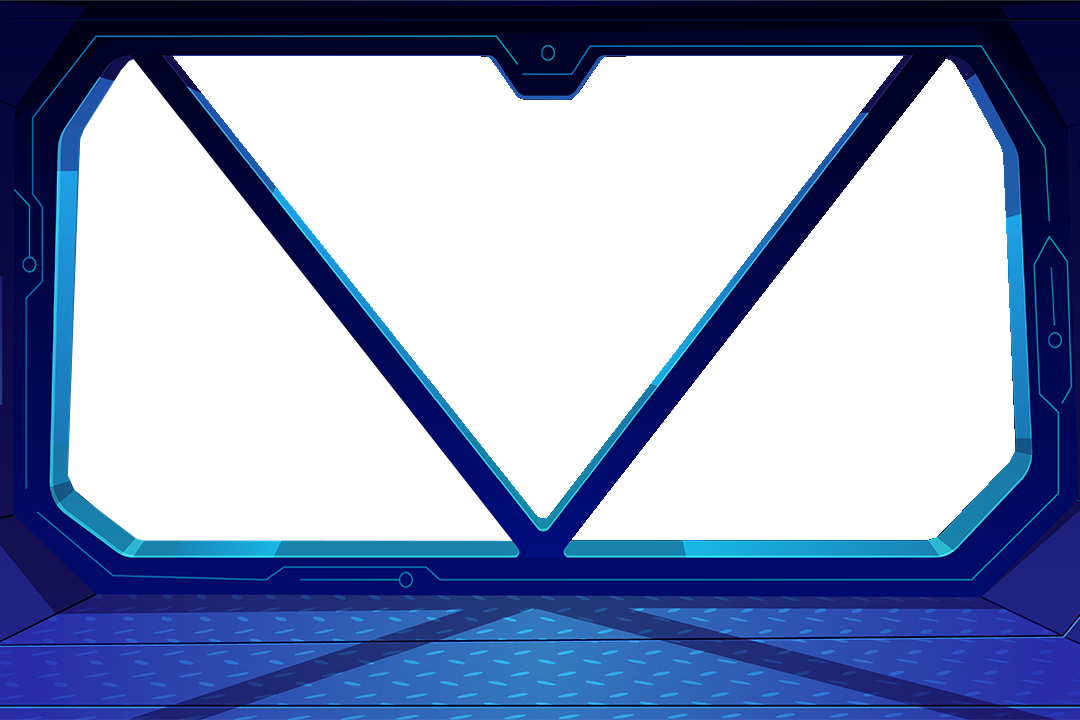
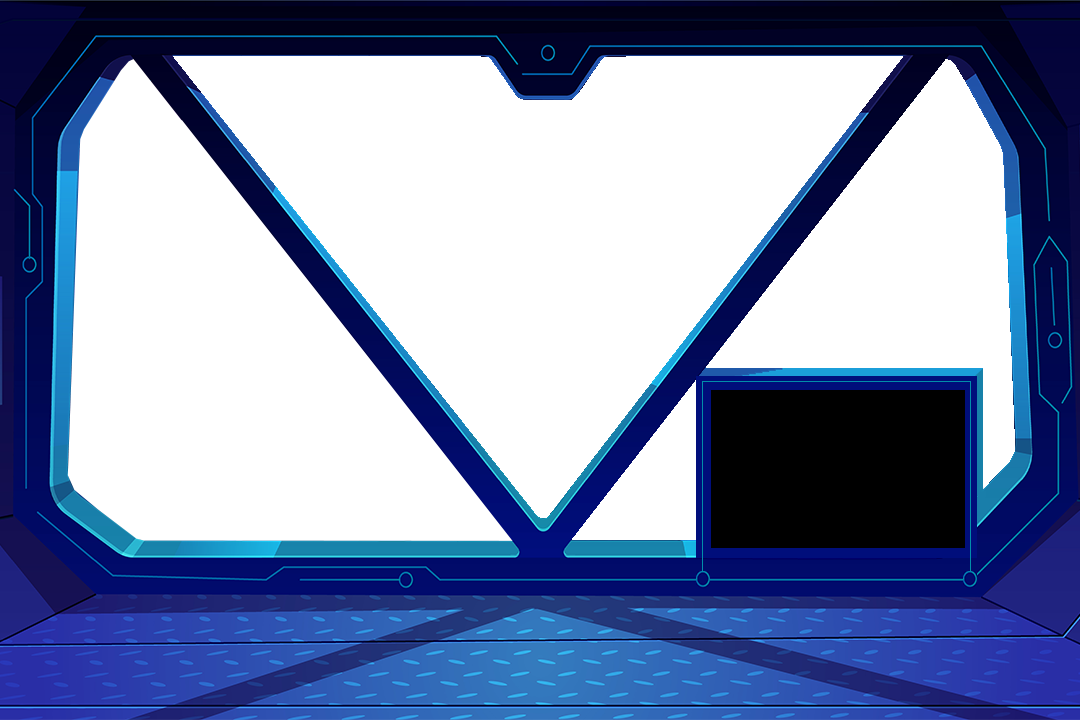
Enhanced end game and added return to menu option

Changed region(s): [[0.6417, 0.4889, 0.9167, 0.825], [0.8861, 0.7944, 0.9167, 0.825]]

diff --git a/main.py b/main.py
@@ -16,13 +16,14 @@ clock = pygame.time.Clock()
 background = pygame.image.load('background.jpg')
 background2_inside = pygame.image.load('background2_inside.png')
 background2_outside = pygame.image.load('background2_outside.png')
+background_menu = pygame.image.load('background_menu.png')
 
 ### Global Variables ###
 alien_values = [-50, 10, 20, 30, 40, 50]
 alien_images = ['pig.png', 'a1.png', 'a2.png', 'a3.png', 'a4.png', 'a5.png']
 hit_marker_skins = ['crosshair.png', 'crosshair1.png', 'crosshair2.png']
 astronaut_skins = ['playerchar.png', 'ai1char.png', 'ai2char.png', 'player_eject.png', 'ai1_eject.png', 'ai2_eject.png']
-astronaut_coordinates = [[200, 500], [400, 500], [0, 125]]
+astronaut_coordinates = [[400, 500], [200, 500], [0, 200]]
 player_score = 0
 ai_one_score = 0
 ai_two_score = 0
@@ -129,20 +130,25 @@ class Astronaut():
     def __init__(self, id):
         self.skin = pygame.image.load(astronaut_skins[id])
         self.skin_eject = pygame.image.load(astronaut_skins[id + 3])
+        self.crown = pygame.image.load('winner_crown.png')
         self.x_position = 0
         self.y_position = 0
-        self.last_place = False
+        self.place = 0
     
     def appear(self):
-        if self.last_place == True:
+        if self.place == 2:
             screen.blit(self.skin_eject, (self.x_position, self.y_position))
         else:
             screen.blit(self.skin, (self.x_position, self.y_position))
+            if self.place == 0:
+                screen.blit(self.crown, (self.x_position - 10, self.y_position - 80))
 
 ### Game Objects ###
 score_font = pygame.font.Font('freesansbold.ttf', 24)
 start_font = pygame.font.Font('freesansbold.ttf', 256)
 play_button = Button((255,255,255), 200, 200, 150, 100, 60, 'hi')
+play_again_button = Button((255,255,255), 718, 507, 115, 30, 30, 'Play Again')
+main_menu_button = Button((255,255,255), 860, 507, 115, 30, 30, 'Main Menu')
 ammo_button = Button((255, 255, 255), 900, 30, 160, 50, 32, f"AMMO: {ammo}")
 player_click = HitMarker(0)
 ai_one_click = HitMarker(1)
@@ -157,7 +163,7 @@ aliens = []
 for i in range(5):
     alien = Alien(0)
     aliens.append(alien)
-
+    alien.randomize()
 
 def show_ammo():
     red = abs(25 - ammo) * 10
@@ -173,9 +179,14 @@ def show_scores():
     p_score = score_font.render(f"Player Points: {player_score}", True, (0, 0, 255))
     a1_score = score_font.render(f"AI 1 Points: {ai_one_score}", True, (255, 0, 0))
     a2_score = score_font.render(f"AI 2 Points: {ai_two_score}", True, (0, 255, 0))
-    screen.blit(p_score, (10, 10))
-    screen.blit(a1_score, (10, 40))
-    screen.blit(a2_score, (10, 70))
+    if playing_game == True:
+        screen.blit(p_score, (10, 10))
+        screen.blit(a1_score, (10, 40))
+        screen.blit(a2_score, (10, 70))
+    elif end_game == True:
+        screen.blit(p_score, (715, 400))
+        screen.blit(a1_score, (715, 435))
+        screen.blit(a2_score, (715, 470))
 
 def show_time_left():
     converted_time = time_left // 100
@@ -203,7 +214,7 @@ def reset_game():
     global ai_one_score
     global ai_two_score
     global ammo
-    time_left = 6000
+    time_left = 300
     start_time = 0
     player_score = 0
     ai_one_score = 0
@@ -247,11 +258,13 @@ def determine_placements():
 def set_astronaut_values():
     astronauts[first_place].x_position = astronaut_coordinates[0][0]
     astronauts[first_place].y_position = astronaut_coordinates[0][1]
+    astronauts[first_place].place = 0
     astronauts[second_place].x_position = astronaut_coordinates[1][0]
     astronauts[second_place].y_position = astronaut_coordinates[1][1]
+    astronauts[second_place].place = 1
     astronauts[third_place].x_position = astronaut_coordinates[2][0]
     astronauts[third_place].y_position = astronaut_coordinates[2][1]
-    astronauts[third_place].last_place = True
+    astronauts[third_place].place = 2
 
 running = True
 while running:
@@ -292,6 +305,8 @@ while running:
             determine_placements()
             set_astronaut_values()
             playing_game = False
+            for alien in aliens:
+                alien.randomize()
             end_game = True
         for alien in aliens:
             alien.x_position += alien.x_change
@@ -328,16 +343,42 @@ while running:
         for event in pygame.event.get():
             if event.type == pygame.QUIT:
                 running = False
+            if event.type == pygame.MOUSEMOTION:
+                if play_again_button.is_over(pos):
+                    play_again_button.color = (0, 255, 0)
+                elif main_menu_button.is_over(pos):
+                    main_menu_button.color = (192, 192, 192)
+                else:
+                    play_again_button.color = (255, 255, 255)
+                    main_menu_button.color = (255, 255, 255)
+            if event.type == pygame.MOUSEBUTTONDOWN:
+                if play_again_button.is_over(pos):
+                    start_time = 0
+                    end_game = False
+                    doing_countdown = True
+                elif main_menu_button.is_over(pos):
+                    end_game = False
         screen.blit(background2_outside, (0, 0))
         astronauts[third_place].appear()
+        for alien in aliens:
+            alien.x_position += alien.x_change
+            alien.appear()
+            if alien.r_l == 0:
+                if alien.x_position <= -60:
+                    alien.randomize()
+            elif alien.r_l == 1:
+                if alien.x_position >= 1200:
+                    alien.randomize()
         screen.blit(background2_inside, (0, 0))
         astronauts[first_place].appear()
         astronauts[second_place].appear()
         show_scores()
-        astronauts[third_place].x_position += 1.4
+        if astronauts[third_place].x_position < 1020:
+            astronauts[third_place].x_position += 12
+        else:
+            play_again_button.draw(screen)
+            main_menu_button.draw(screen)
     else:
-        screen.blit(background2_inside, (0, 0))
-        screen.blit(background2_outside, (0, 0))
         for event in pygame.event.get():
             if event.type == pygame.QUIT:
                 running = False
@@ -345,6 +386,16 @@ while running:
                 if play_button.is_over(pos):
                     start_time = 0
                     doing_countdown = True
+        screen.blit(background_menu, (0, 0))
+        for alien in aliens:
+            alien.x_position += alien.x_change
+            alien.appear()
+            if alien.r_l == 0:
+                if alien.x_position <= -60:
+                    alien.randomize()
+            elif alien.r_l == 1:
+                if alien.x_position >= 1200:
+                    alien.randomize()
         play_button.draw(screen)
     pygame.display.update()
     clock.tick(100)

diff --git a/button.py b/button.py
@@ -18,7 +18,7 @@ class Button():
         
         if self.text != '':
             font = pygame.font.SysFont('comicsans', self.size)
-            text = font.render(self.text, 1, (255,255,255))
+            text = font.render(self.text, 1, (0,0,0))
             win.blit(text, (self.x + (self.width/2 - text.get_width()/2), self.y + (self.height/2 - text.get_height()/2)))
 
     def is_over(self, pos):
